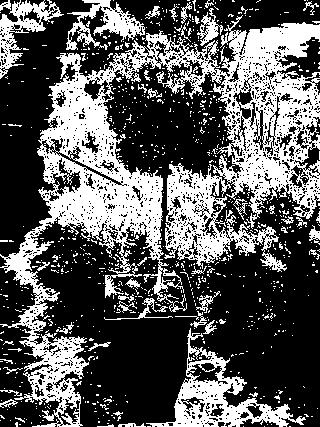
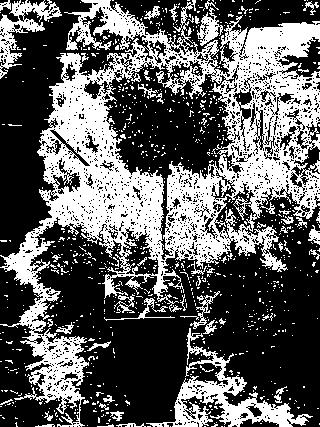
add drawing func

diff --git a/segmentation-tests/bananas.py b/segmentation-tests/bananas.py
@@ -9,26 +9,50 @@ from image2graph import image2graph
 import os
 
 
+def generate_rect(corner, h, w):
+    rect = []
+    for i in range(h):
+        for j in range(w):
+            rect.append((corner[0]+i, corner[1]+j))
+    return rect
+
+
+def generate_interval(a, b, fat=1):
+    x0, y0 = a[0], a[1]
+    x1, y1 = b[0], b[1]
+    interval = []
+    deltax = abs(x1 - x0)
+    deltay = abs(y1 - y0)
+    error = 0
+    deltaerr = (deltay + 1)
+    y = y0
+    diry = y1 - y0
+    if diry > 0:
+        diry = 1
+    if diry < 0:
+        diry = -1
+    for x in range(x0, x1+1):
+        for j in range(fat):
+            interval.append((x, y+j))
+        error = error + deltaerr
+        if error >= (deltax + 1):
+            y = y + diry
+            error = error - (deltax + 1)
+    return interval
+
+
 def generate_banana1_scribbles():
     # эмитирует то, что мы отметили как фон и обьект
-    obj = []
-    for i in range(150, 185):
-        obj.append((i, 50 + 2 * (i - 150)))
-        obj.append((i, 50 + 2 * (i - 150) + 1))
-        obj.append((i, 50 + 2 * (i - 150) + 2))
-        obj.append((i, 50 + 2 * (i - 150) + 3))
-        obj.append((i, 50 + 2 * (i - 150) + 4))
-        obj.append((i, 50 + 2 * (i - 150) + 5))
-    for i in range(110, 150):
-        obj.append((i, 260))
-        obj.append((i, 261))
-        obj.append((i, 262))
-
-    bkg = []
-    for j in range(10, 125):
-        bkg.append((50, j))
-        bkg.append((51, j))
-        bkg.append((52, j))
+    obj = generate_interval((130, 50), (165, 200), 5)
+    # for i in range(150, 185):
+    #     obj.append((i, 50 + 2 * (i - 150)))
+    #     obj.append((i, 50 + 2 * (i - 150) + 1))
+    #     obj.append((i, 50 + 2 * (i - 150) + 2))
+    #     obj.append((i, 50 + 2 * (i - 150) + 3))
+    #     obj.append((i, 50 + 2 * (i - 150) + 4))
+    #     obj.append((i, 50 + 2 * (i - 150) + 5))
+    obj += generate_rect((110, 260), 30, 4)
+    bkg = generate_rect((50, 10), 3, 115)
 
     return obj, bkg
 
